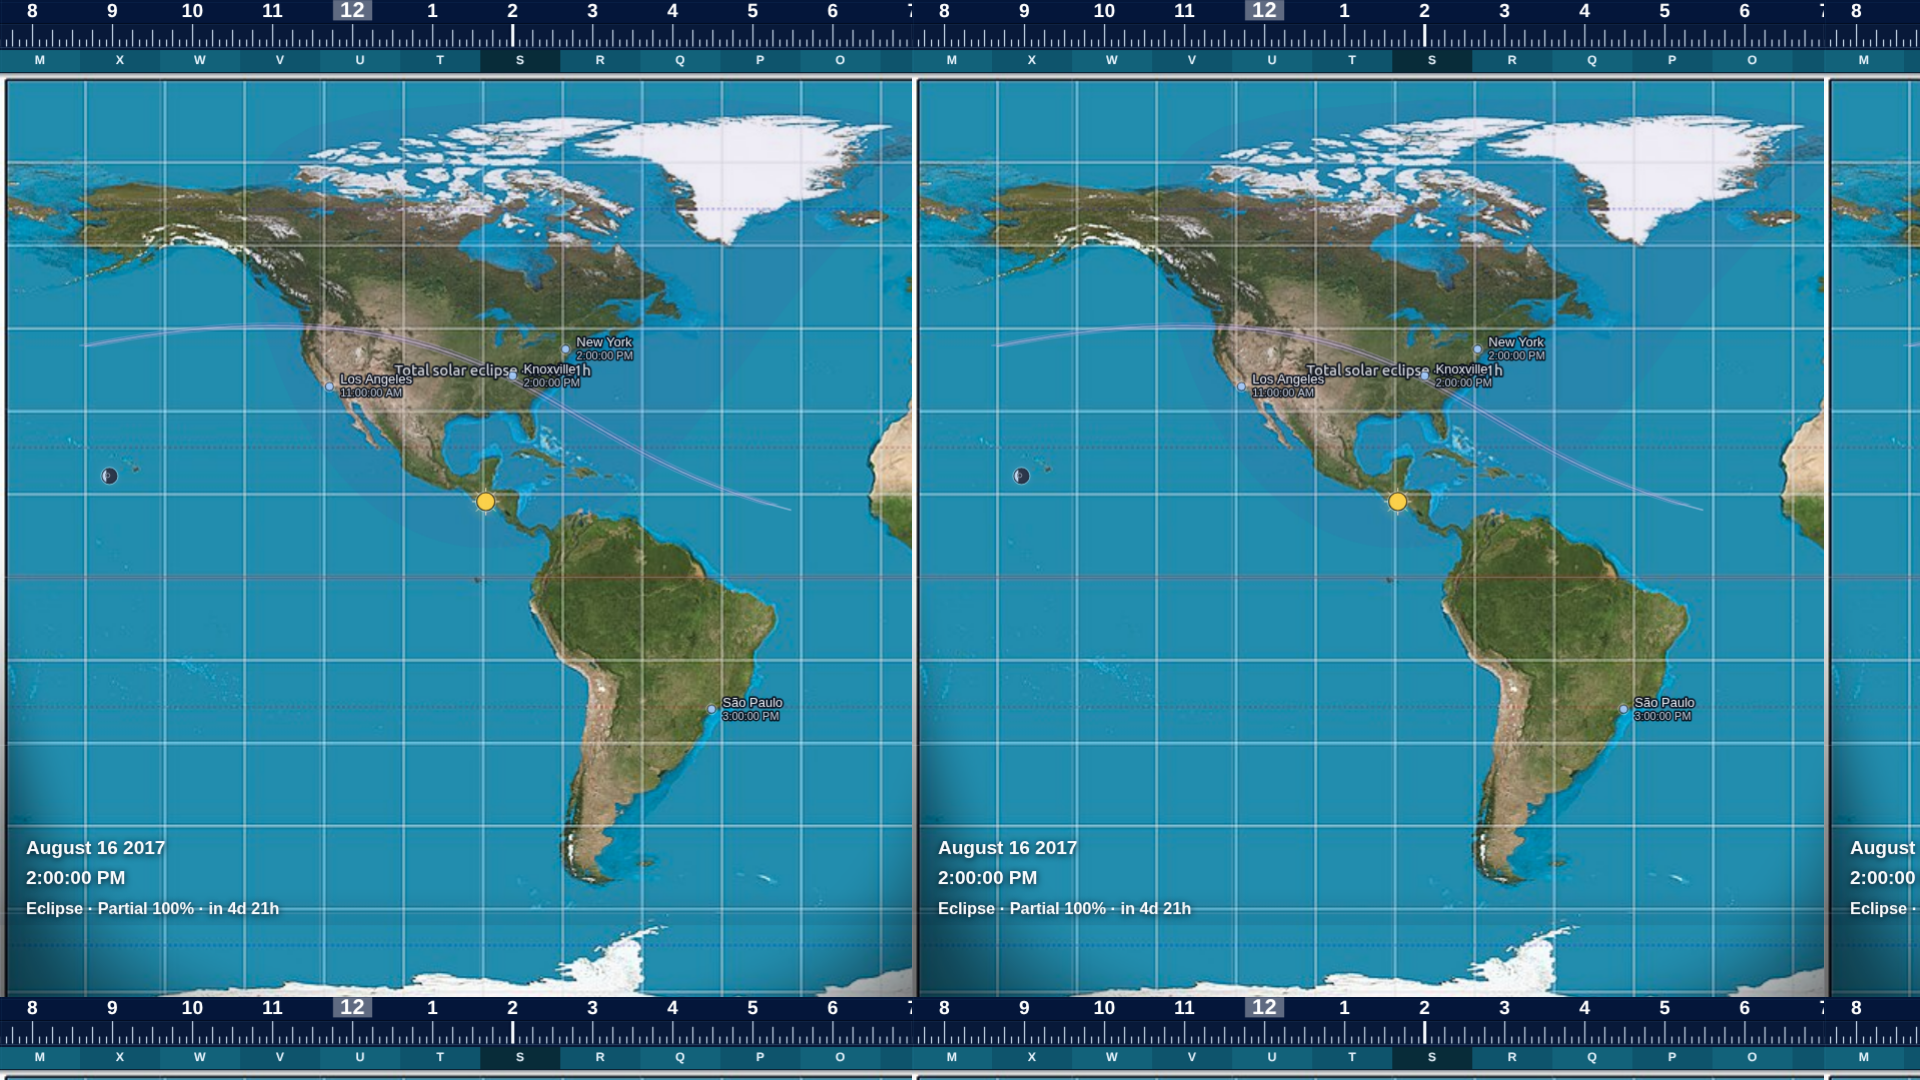
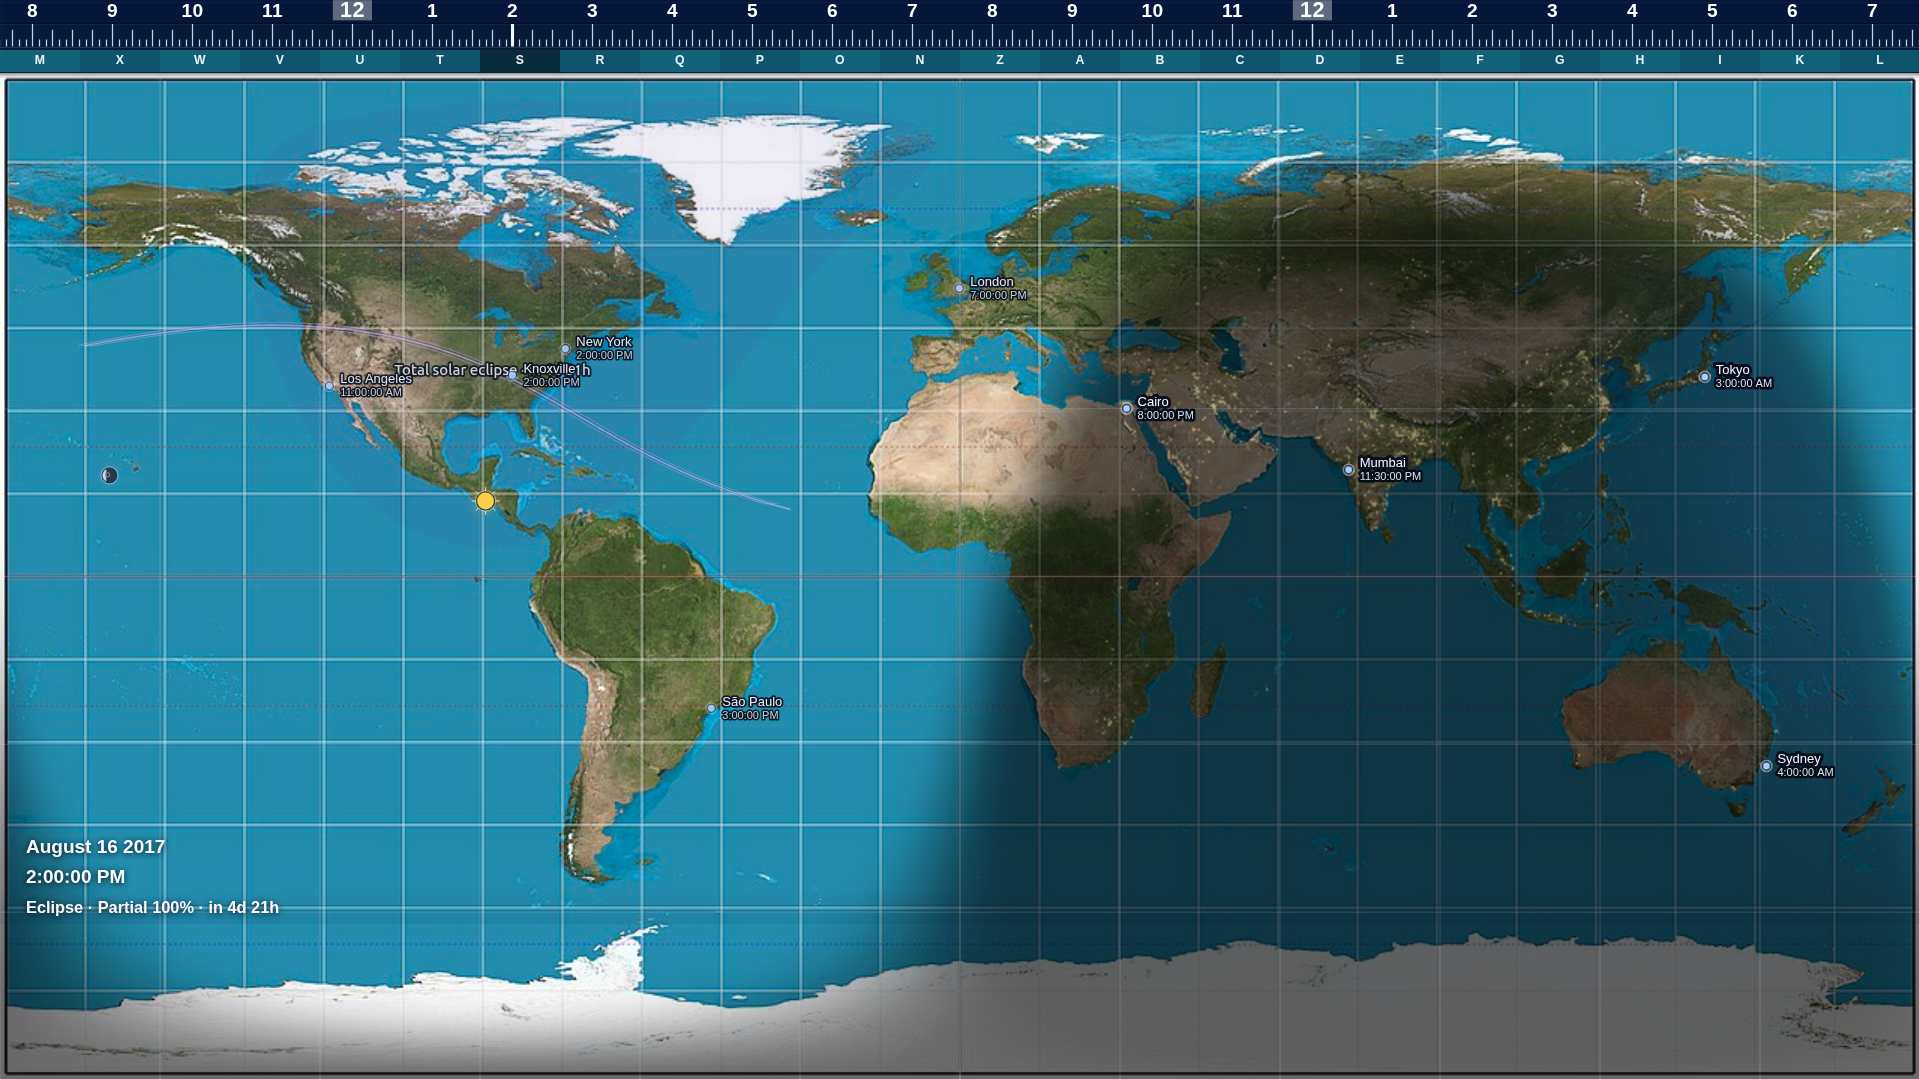
docs: repair eclipse screenshot capture pipeline
Complete LIB-023 by diagnosing and repairing the README screenshot capture
workflow and recapturing the 2017 total solar eclipse media set.

- identify Cursor/Chromium compositor tiling as the cause of duplicated views
- confirm Libration itself renders a single full-world scene
- document viewport, canvas, and backing-store sizing behavior
- replace Page.captureScreenshot with direct canvas PNG export
- establish a reproducible single-view capture procedure
- preserve truthful rendered dimensions rather than upscaling
- replace all six malformed LIB-022 screenshots with clean captures
- recapture forecast, active overview, early, mid, and late eclipse frames
- create a clean dramatic beam closeup from a valid greatest-eclipse frame
- keep progression frames identically framed for future animation use
- verify all captures contain one map, one chrome set, and no compositor tiling
- validate readability at representative README display widths
- document the capture warning and procedure in visual-verification guidance
- return development state to AWAITING SCOPE

Media:
- 5 full-world eclipse captures at 1919x1079
- 1 beam closeup at 680x540
- no Cursor chrome, Config panel, DEV banner, or duplicated scene seams

Product changes:
- none

LIB-023 COMPLETE

diff --git a/docs/work/LIB-023-repair-readme-screenshot-capture.md b/docs/work/LIB-023-repair-readme-screenshot-capture.md
@@ -1,0 +1,133 @@
+# LIB-023 — Repair README screenshot capture pipeline and recapture 2017 eclipse set
+
+| Field | Value |
+|-------|-------|
+| ID | LIB-023 |
+| Status | complete |
+| Created | 2026-08-16 |
+| Approved | 2026-08-16 (human; this request) |
+| Completed | 2026-08-16 |
+
+Human-authorized bounded MEDIA-CAPTURE / DOCUMENTATION-ASSET item. Authorized to create, approve, activate, diagnose, recapture, verify, and complete in the same request. This is not an Eclipse System feature. Do not commit, push, tag, branch, or release.
+
+## Objective
+
+Diagnose why LIB-022’s 1920×1080 PNGs contain horizontally repeated Libration viewports, establish a truthful reproducible capture method that records one complete application viewport, and replace the six malformed 2017-08-21 README screenshots.
+
+## Scope
+
+**In scope**
+
+- Reproduce the LIB-022 capture defect and identify its cause from runtime evidence.
+- Establish a capture procedure that records one Libration viewport (prefer genuine 1920×1080; otherwise the largest clean single-view size Cursor Browser can actually render).
+- Replace all six `docs/images/eclipse-2017/` PNGs with clean recaptures at the same canonical filenames.
+- Small capture-procedure note in an existing docs owner if appropriate.
+- Optional smallest DEV-only screenshot helper only if session/browser automation cannot produce a clean capture.
+- Work-item, STATE, and DEVELOPMENT_LOG transaction.
+
+**Out of scope**
+
+- README.md edits.
+- GIFs, video, WebM, MP4, animated WebP.
+- Production astronomy, eclipse geometry, configuration semantics, rendering algorithms, or product styling changes for prettier screenshots.
+- Changing product wrap/viewMode behavior solely to make screenshots easier.
+- Commits, pushes, tags, branches, or releases.
+- Other eclipses or general media curation.
+
+## Architectural boundaries
+
+- [`ARCHITECTURE.md`](../../ARCHITECTURE.md) — product semantics upstream of `RenderPlan`; one UTC instant; backends must not decide product behaviour.
+- [`docs/VISUAL_VERIFICATION.md`](../VISUAL_VERIFICATION.md) — Cursor Browser; canonical 1920×1080 is preferred but must not be faked.
+- Predecessor: [LIB-022](LIB-022-eclipse-2017-readme-screenshots.md) (complete; capture set is malformed).
+
+## Acceptance criteria
+
+- Root cause of the dual/repeated-view captures is identified from DOM/canvas/runtime evidence, not guessed.
+- Six PNG screenshots exist at the LIB-022 canonical names, each containing exactly one Libration viewport (one top chrome, one scene, one bottom chrome/HUD).
+- Capture dimensions are truthful; no stretch, tile, stitch, or upscale to claim 1920×1080.
+- No Config, DEV banner, or Cursor chrome in the final files.
+- #2–#5 use identical framing; only product UTC changes.
+- #6 is a lossless crop of a clean single-view frame (Event labels off if they would clip).
+- No production product-behavior changes made solely for screenshots.
+- A reproducible capture procedure is recorded on this work item.
+- Repository returns to AWAITING SCOPE. README.md is not edited.
+
+## Verification plan
+
+- Focused tests: only if DEV helper code changes
+- Full suite: yes if source changes; otherwise media/docs-only verification of the six PNGs
+- Type-check: only if source changes
+- Build: only if DEV helper code is retained
+- Visual verification: required — inspect each saved PNG for single-view integrity
+
+## Documentation impact
+
+- This work item.
+- [`docs/STATE.md`](../STATE.md)
+- [`docs/DEVELOPMENT_LOG.md`](../DEVELOPMENT_LOG.md)
+- [`docs/VISUAL_VERIFICATION.md`](../VISUAL_VERIFICATION.md) — small capture-viewport note if that document owns the procedure.
+
+## Capture procedure (reproducible)
+
+Dev server: `npm run dev` → `http://localhost:1420/`. Scenario: `?scenario=solar-eclipse-forecast` (7-day solar horizon so the 2017 corridor remains during the live event).
+
+1. CDP `Emulation.setDeviceMetricsOverride` `{width:1920, height:1080, deviceScaleFactor:1, mobile:false}` **before** navigation.
+2. Navigate/reload `http://localhost:1420/?scenario=solar-eclipse-forecast`.
+3. Session CSS: `html`/`body` `overflow:hidden`; hide `.visual-scenario-banner` and `.config-launcher`.
+4. `canvas.style.width = canvas.style.height = '100%'`; `window.dispatchEvent(new Event('resize'))`; wait ~12 animation frames.
+5. Session config (Config panel, then Escape): City pins **on**, Lunar eclipses **off**, Event labels **on** for #1–#5 / **off** for #6, Alignment **Normal** for #1–#5 / **Dramatic** for #6 only, basemap `equirect-world-legacy-v1`.
+6. Set demo time via Data tab. `browser_fill` on the controlled time field is unreliable; commit ISO UTC through the React `onCommit` on `DemoTimeStartFields`, then click “Reset demo playback to configured start”.
+7. Close Config. Verify one canvas, one `#root`, canvas CSS ~1920×1080, backing ~1919×1079.
+8. Export **`canvas.toDataURL('image/png')`**. Extract the PNG from the CDP JSON. **Do not** use `Page.captureScreenshot`.
+9. Confirm left vs +912 px columns are not pixel-identical. #6 is a lossless crop of a valid GE frame (Event labels off).
+
+## Completion record
+
+**Implementation summary**
+
+LIB-022 dual/repeated views were **not** product map wrap, duplicate React roots, or CSS background-repeat. Cursor Browser’s compositor surface stays at the embedded pane size (~673×770). `Page.captureScreenshot` under a 1920×1080 device-metrics override tiled that surface (exact 912 px period, including chrome). The canvas bitmap after a pre-load metrics override + `100%` fill + `resize` is one genuine full-world viewport. Replaced all six `docs/images/eclipse-2017/` files via `canvas.toDataURL`. No production or DEV source changes.
+
+**Commands run**
+
+- Cursor Browser CDP: DOM/canvas metrics before and after device-metrics override; `Page.captureScreenshot` reproduction of the 912 px tile; `canvas.toDataURL` exports for stations #1–#6
+- PIL: dimensions, SHA-256, left-vs-+912 uniqueness (`exact=False`, meanAbs ~59–62 on #1–#5), HUD-region uniqueness, #2–#5 framing diffs (meanAbs 3.9–8.2 vs #4; same 1919×1079)
+- Lossless #6 crop from Dramatic unlabeled GE frame, box `(220,90,900,630)` → 680×540
+- Temporary README-scale downsamples of #2 at 1200 / 800 / 600 px (not saved as canonical)
+- `git status` — media + docs only; no `src/` diffs
+- Suite not rerun (no source changes). Full suite was green at activation: `npm test` 199 files / 1851 passed
+
+**Actual results**
+
+| File | UTC | px | bytes | sha256 prefix |
+|------|-----|----|------:|---------------|
+| `eclipse-2017-01-forecast.png` | 2017-08-16T18:00:00Z | 1919×1079 | 2697407 | `b23040bdf0e8c6c9` |
+| `eclipse-2017-02-active-path-overview.png` | 2017-08-21T18:00:00Z | 1919×1079 | 2682658 | `21280c61ccc1e40d` |
+| `eclipse-2017-03-active-early.png` | 2017-08-21T17:16:44Z | 1919×1079 | 2686602 | `61d91216ba337266` |
+| `eclipse-2017-04-active-mid.png` | 2017-08-21T18:25:30Z | 1919×1079 | 2679421 | `876d903ed785982c` |
+| `eclipse-2017-05-active-late.png` | 2017-08-21T18:48:44Z | 1919×1079 | 2683506 | `4257dd5699590605` |
+| `eclipse-2017-06-beam-closeup.png` | 2017-08-21T18:25:30Z | 680×540 crop | 421092 | `414f4cfb55a02f55` |
+
+Honest backing 1919×1079 (`Math.floor(1920 * dpr)` at dpr slightly under 1). Not upscaled to 1920×1080. #6 Dramatic, Event labels off; #1–#5 Alignment Normal, Event labels on.
+
+**Visual verification**
+
+- Scenario: `solar-eclipse-forecast` (session demo times as above)
+- Viewport: requested 1920×1080 CSS; canvas export 1919×1079; Cursor pane remains ~670×770 and must not be captured with `Page.captureScreenshot`
+- Browser: Cursor built-in
+- Inspected: single top ruler, single HUD, one equirect world, no 912 px tile, no Config/DEV banner/Cursor chrome, forecast vs live stations, #2–#5 matching framing, #6 crop (no clipped `Total solar ec…`, no duplicated-scene seam)
+- Result: PASS
+- Observations: 24-hour ruler showing 1–12 twice is product design. Far-right ±360° wrap sliver on full-world frames is intended seam handling, not the capture bug.
+
+**Not verified**
+
+- Physical 1920×1080 OS window outside Cursor Browser
+- GitHub live README rendering (only local 1200/800/600 downsamples)
+- Pixel-perfect Dramatic vs Normal glyph geometry beyond localized meanAbs ~0.28 on a same-crop compare
+- Event information DOM panel (absent from canvas export)
+
+**Discovered, not done**
+
+- Knoxville HUD during the US totality window reads `Eclipse · Partial 100% · max 2:34 PM` (just off the path). Product copy; not changed.
+- `fullWorldFixed` only — #6 remains a screenshot crop.
+- `applyViewport` inline pixel CSS lock is genuine layout behaviour; not changed for screenshots.
+- City pins at README ~600 px width: Knoxville/New York labels crowd; path and HUD remain readable.

diff --git a/docs/VISUAL_VERIFICATION.md b/docs/VISUAL_VERIFICATION.md
@@ -47,6 +47,21 @@ It is not the only supported resolution. Do not invent a device matrix.
 
 If Cursor cannot programmatically guarantee that exact size, use the closest controllable 1920×1080 browser viewport and **report the limitation** rather than claiming exactness.
 
+### README and docs PNG capture
+
+A PNG that is nominally 1920×1080 is not proof of one Libration viewport. LIB-022’s `Page.captureScreenshot` files were 1920×1080 and still contained two full scene copies plus a partial third.
+
+`CanvasRenderBackend.applyViewport` writes inline `style.width` / `style.height` in CSS pixels from the first layout. `Emulation.setDeviceMetricsOverride` after that load changes `window.innerWidth` but leaves the canvas locked to the Cursor pane size (~670×770). Forcing `canvas.style` to `100%` and dispatching `resize` does paint one genuine wide world on the **canvas bitmap**. Capturing the **compositor surface** with `Page.captureScreenshot` (`fromSurface: true`) under a 1920×1080 override then **tiles that smaller surface** across the PNG (LIB-022 period was an exact 912 px repeat, including duplicated chrome).
+
+Do this instead:
+
+1. Set device metrics to 1920×1080 **before** navigation/reload so layout initializes at that size.
+2. After load, `html`/`body` `overflow: hidden`; set the scene canvas CSS to `100%` width/height and dispatch `resize` so remaining slack is absorbed.
+3. Export with `canvas.toDataURL('image/png')`. Honest backing size may be 1919×1079 (`Math.floor(1920 * dpr)` at dpr slightly under 1). Do not upscale.
+4. Confirm left vs +~900 px columns are **not** pixel-identical before accepting the file.
+
+Do not stretch a pane-sized canvas without reload, tile/stitch viewports, or crop one repeated copy and scale it. Hide the DEV scenario banner and Config launcher only as session CSS; they are DOM overlays and are already absent from a canvas export. Procedure detail: [`docs/work/LIB-023-repair-readme-screenshot-capture.md`](work/LIB-023-repair-readme-screenshot-capture.md).
+
 ## Scenario selection
 
 A work item does not mechanically need every scenario.

diff --git a/docs/DEVELOPMENT_LOG.md b/docs/DEVELOPMENT_LOG.md
@@ -148,4 +148,10 @@ README-candidate PNG set of the 2017-08-21 total solar eclipse (`nasa-5mcse-sola
 
 Verified: authority stations via `npx tsx`; Cursor Browser CDP 1920×1080 PNGs (forecast 2017-08-16T18:00Z, overview 18:00Z, Oregon 17:16:44Z, GE 18:25:30Z, Carolina 18:48:44Z, beam crop of GE). Suite not rerun (no source changes).
 
+## 2026-08-16 — LIB-023 complete
+
+Replaced the malformed LIB-022 2017 eclipse PNGs. Root cause was Chromium `Page.captureScreenshot` tiling the Cursor pane compositor surface under a 1920×1080 device-metrics override, not product world wrap. Capture is now `canvas.toDataURL` after metrics-before-reload; full frames 1919×1079, beam crop 680×540. No product source changes; README.md not edited.
+
+Verified: PIL uniqueness (no 912 px tile); visual inspection of all six; README-scale downsamples of the overview at 1200/800/600. Suite not rerun (no source changes).
+
 

diff --git a/docs/STATE.md b/docs/STATE.md
@@ -9,7 +9,7 @@ None
 
 ## Last completed
 
-[LIB-022](work/LIB-022-eclipse-2017-readme-screenshots.md) — 2017 total solar eclipse README screenshot set
+[LIB-023](work/LIB-023-repair-readme-screenshot-capture.md) — Repair README screenshot capture pipeline and recapture 2017 eclipse set
 
 ## Blockers
 
@@ -21,4 +21,4 @@ None
 
 ## Next action
 
-None. Capture PNGs are in `docs/images/eclipse-2017/`. README.md is not edited.
+Stop. No approved work. Do not edit README.md, create animation, or start another media item until a human authorizes it.
